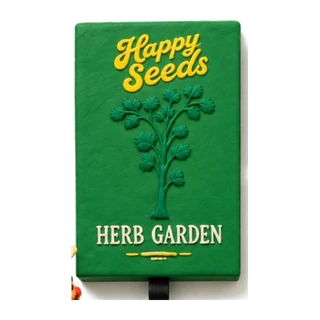
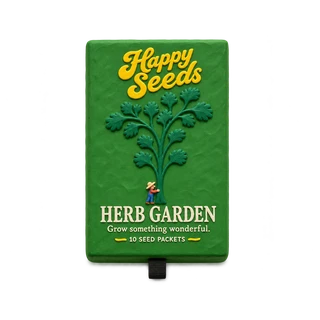
Herb kit: Jared's approved clay box, packets and grow guide on the page (Nov 2)
Claude-Session: https://claude.ai/code/session_01J2R4BD6HLiQv8B6i7zkBfA

diff --git a/herb-kit.html b/herb-kit.html
@@ -237,7 +237,7 @@ src="https://www.facebook.com/tr?id=1606389660991888&ev=PageView&noscript=1"/></
 <section class="values" aria-label="What you get">
   <div class="wrap grid">
     <div class="vcard clay"><img src="media/site/icon-herbs.webp" width="320" height="320" alt="" loading="lazy"><div class="n">10</div><p>Culinary herbs</p></div>
-    <div class="vcard clay"><div class="n" style="margin-top:28px">24</div><p>Page grow guide</p></div>
+    <div class="vcard clay"><img src="media/site/icon-herb-guide.webp" width="320" height="320" alt="" loading="lazy"><div class="n">24</div><p>Page grow guide</p></div>
     <div class="vcard clay"><img src="media/site/icon-herb-kit-box.webp" width="320" height="320" alt="" loading="lazy"><div class="n">1</div><p>Keepsake box</p></div>
     <div class="vcard clay"><img src="media/site/icon-seeds.webp" width="320" height="320" alt="" loading="lazy"><div class="n">1,000+</div><p>Seeds</p></div>
   </div>
@@ -255,12 +255,13 @@ src="https://www.facebook.com/tr?id=1606389660991888&ev=PageView&noscript=1"/></
         <li><b>Year-round sowing</b>: cool-season and warm-season herbs, so there is always something to start</li>
       </ul>
     </div>
-    <div class="art"><img class="clay" src="media/site/farmer/herb-kit-clay.webp" width="1200" height="1200" loading="lazy" alt="Claymation version of the Happy Seeds Herb Garden Kit: the green box and ten herb seed packets, with the Happy Farmer admiring them"></div>
+    <div class="art"><img class="cut" src="media/site/herb-packets.webp" width="1440" height="1080" loading="lazy" alt="The ten Herb Garden Kit seed packets: sage, dill, oregano, thyme, sweet basil, parsley, spearmint, cilantro, chives and rosemary"></div>
   </div>
 </section>
 
 <section class="band lineup">
   <div class="wrap">
+    <div class="center" style="display:flex;gap:28px;justify-content:center;align-items:flex-end;margin-bottom:12px"><img class="cut" src="media/site/herb-box.webp" width="1086" height="1086" loading="lazy" alt="The Herb Garden Kit box" style="width:min(300px,40vw);height:auto"><img class="cut" src="media/site/herb-guide.webp" width="1086" height="1086" loading="lazy" alt="The 24-page herb grow guide" style="width:min(240px,32vw);height:auto"></div>
     <div class="center"><p class="eyebrow">The lineup</p><h2>Ten herbs, from kitchen staples to conversation pieces.</h2><p class="sub" style="margin:0 auto">Compact varieties chosen for a sunny windowsill or a small balcony planter.</p></div>
     <ul class="hgrid">
       <li><img class="cut" src="media/site/herbs/basil.webp" width="360" height="360" loading="lazy" alt="Clay model of Genovese sweet basil"><b>Sweet Basil</b><span>'Genovese'</span></li>

diff --git a/media/brand/clay/README.md b/media/brand/clay/README.md
@@ -20,3 +20,6 @@ Never generate or show a box, packet, booklet, label or any packaging that is no
 
 ## Herb Garden Kit packaging (Jared, Nov 2 2026, approved)
 The real Herb Garden Kit design is media/brand/herb-kit-packaging.png and herb-kit-packaging-2.png (green box, yellow Happy Seeds script, one tall herb, HERB GARDEN; ten packets: sage black, dill orange, oregano red, thyme olive, basil teal, parsley pink, spearmint light blue, cilantro purple, chives navy, rosemary green; green grow guide with the Happy Farmer badge). Canva reference MAHZyi04-N4. Approved clay version: MAHZyjtyv5Q (media/site/farmer/herb-kit-clay.jpg). Herb-kit product scenes copy these exactly, same rules as the veggie box (front face only, tab on the short end, packet text as unreadable marks). This supersedes the "no approved packaging" note above.
+
+## Herb Garden Kit clay art (Jared, Nov 2 2026, approved, supersedes the Canva render MAHZyjtyv5Q)
+Jared supplied finished claymation renders of the real packaging: media/brand/clay/herb-kit/box-front.png, packets.png (all ten, real text), grow-guide.png. These are THE herb kit product images; use them (not generated ones) for the site, social product scenes and emails.
